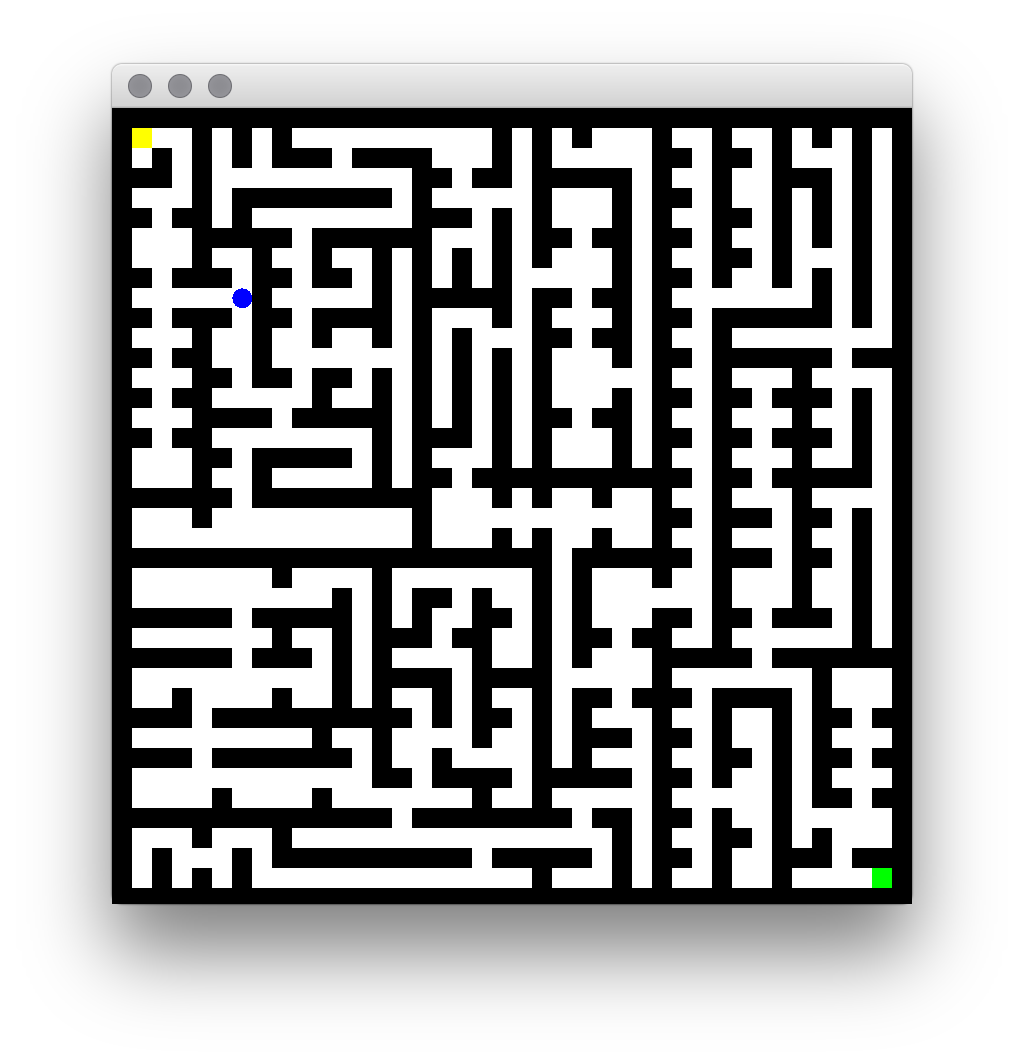
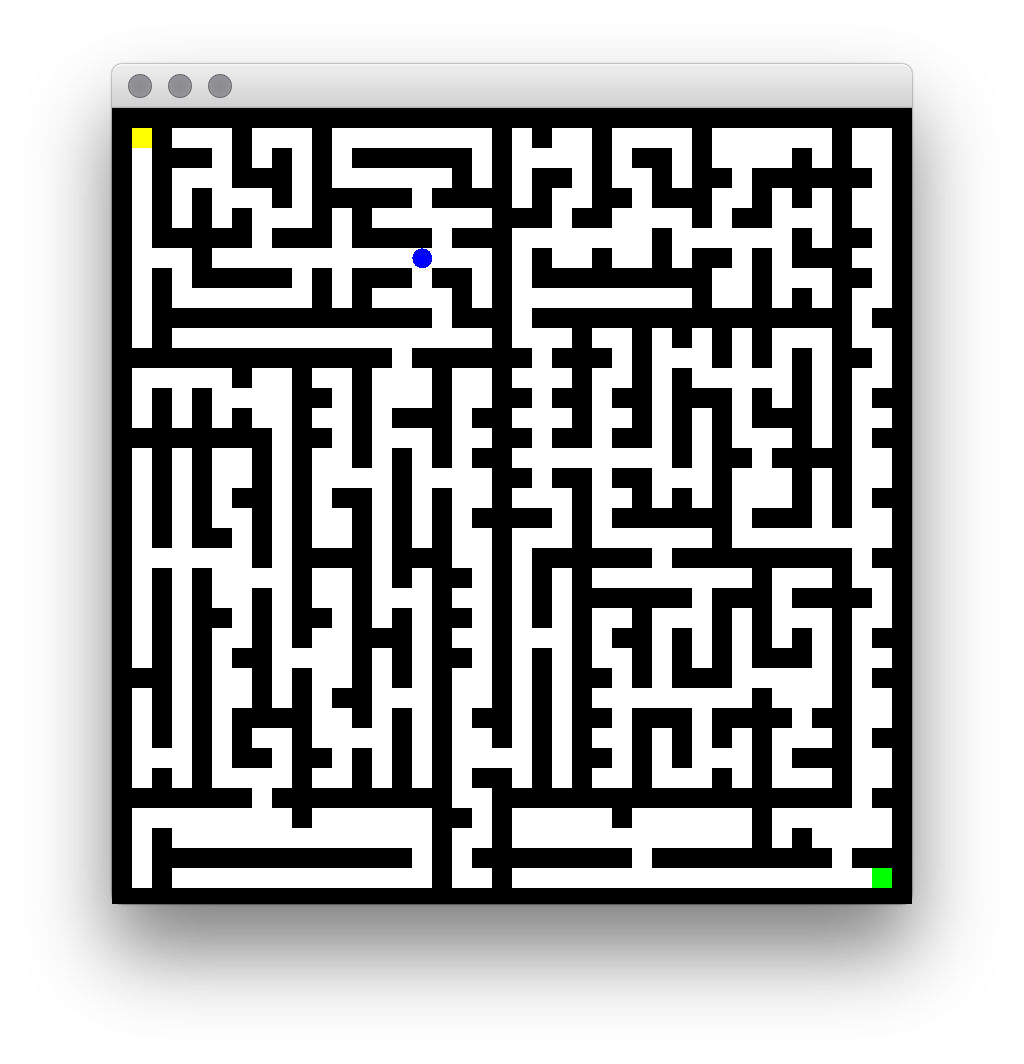
Fixed bug

Changed region(s): [[0.125, 0.093, 0.875, 0.8374]]

diff --git a/src/Board.java b/src/Board.java
@@ -115,7 +115,7 @@ public class Board extends JPanel implements KeyListener{
 			else return;
 			
 		}
-		//if a horizontal wall is being placed
+		//if a horizontal wall is being placed and there is an appropriate place to put a wall.
 		else if(rowDif > 1 && colDif > 0){
 			
 			//List of valid possible columns to place a wall.
@@ -134,7 +134,11 @@ public class Board extends JPanel implements KeyListener{
 				}
 			
 				//Selecting a random cell in previous wall that will be free to add an entry between the rooms.
-				int randCol = r.nextInt(colDif) + tlCol + 1;
+				ArrayList<Integer> possibleColumns = new ArrayList<Integer>();
+				for(int i = tlCol; i <= brCol; i++){
+					possibleColumns.add(i);
+				}
+				int randCol = possibleColumns.get(r.nextInt(possibleColumns.size()));
 				board[randRow][randCol].setType("Free");			
 			
 				//Calling the function again setting a horizontal row 
@@ -146,7 +150,7 @@ public class Board extends JPanel implements KeyListener{
 			//A wall could not be placed horizontally or vertically. This is the base case.
 			else return;
 		}
-		//The algorithm didn't specify whether horizontal or vertical, therefore, return.
+		//The algorithm can't divide the room anymore.
 		else return;
 	}
 
